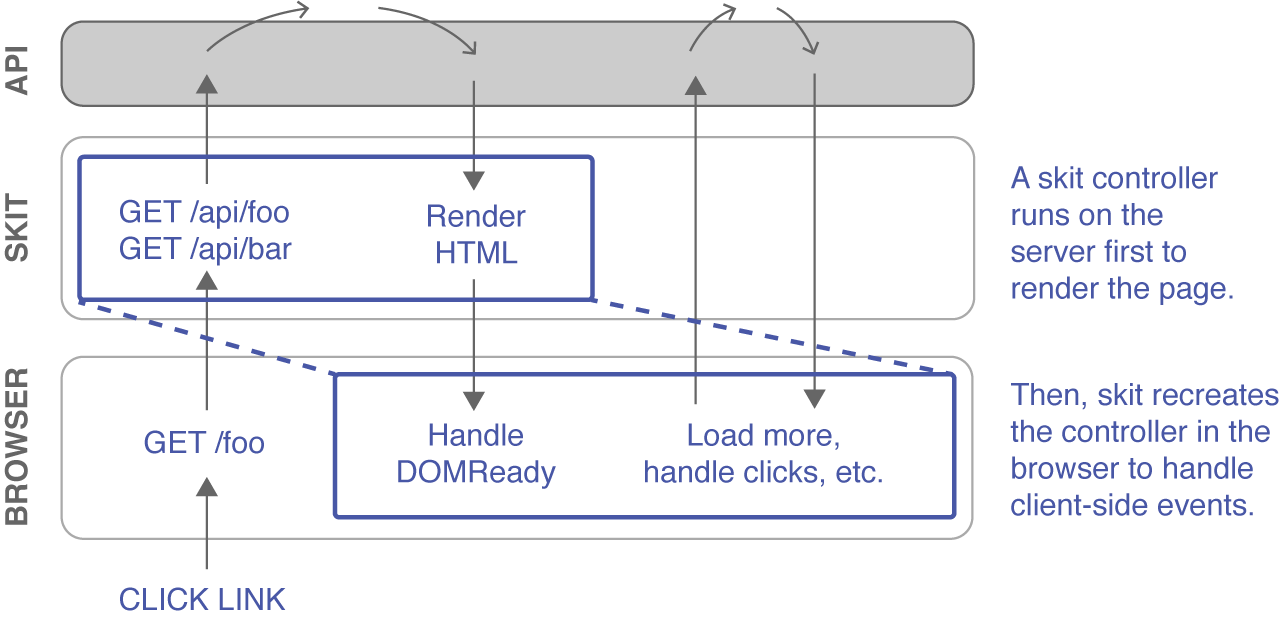
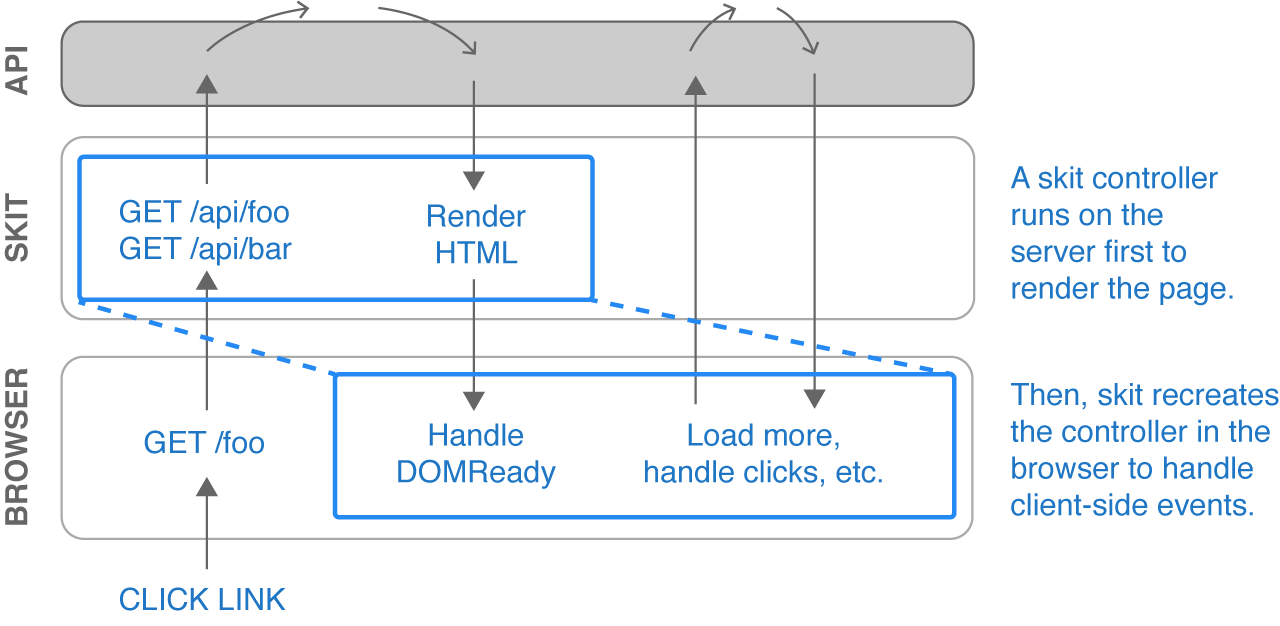
Updates from feedback from Riz, Dylan, Pat; more consistent colors.

diff --git a/example/skitjs.com/public/secret/Home.html b/example/skitjs.com/public/secret/Home.html
@@ -18,18 +18,30 @@
   <h2>What is skit?</h2>
   <ol>
     <li>
-      A JavaScript framework for building web pages with a simple lifecycle:
+      A JavaScript framework for building web pages with the following controller lifecycle:
       <span id="load-cycle">
-        <code>preload</code> &rarr; <code>render</code> &rarr; <code>client ready</code>
+        <span class="server">
+          <span class="title">Server</span>
+          <code>preload</code> &rarr; <code>render</code>
+          <span class="crossover">&rarr;</span>
+        </span><span class="client">
+          <span class="title">Browser</span>
+          <code>client ready</code>
+        </span>
       </span>
     </li>
     <li>
-      A Node.js-based webserver that renders pages on the server,
+      A webserver that runs these controllers on the server,
       then sets them up in the browser with the same state automatically.
     </li>
     <li>
       A module system for building components that consist of templates,
       stylesheets and JavaScript together.
+    </li>
+    <li>
+      A set of lightweight libraries for facilitating issuing HTTP requests,
+      managing cookies, and handling navigation on the server and client side
+      transparently.
     </li>
   </ol>
 </div>
@@ -40,18 +52,15 @@
     Skit is good for building web apps on existing HTTP-based APIs,
     like the one you probably already built for your mobile app.
   </p>
+  <div class="wide-image-container">
+    <img src="/__static__/viewlayer.png" alt="Skit lives in the view layer">
+  </div>
   <p>
     Skit is <strong>not a full-stack framework</strong>,
     or even a &ldquo;Node.js framework&rdquo; in the typical sense &mdash;
     it&rsquo;s more like a client-side framework that also runs
-    on the server side. (You can safely ignore the Node part.)
+    on the server side.
   </p>
-
-  <div class="wide-image-container">
-    <img src="/__static__/viewlayer.png" alt="Skit lives in the view layer">
-  </div>
-
-  <p>That&rsquo;s skit there, sitting right in front of your existing API. &#10548;</p>
 </div>
 
 
@@ -62,8 +71,8 @@
   <ul>
     <li>
       Write a <strong>single JavaScript codebase</strong>
-      for your web app. No more client-side app bootstrapping,
-      or multiple ways to load templates, or multiple template languages.
+      for your web app. No more client-side app bootstrapping hackery
+      or configuring static asset pipelines.
     </li>
     <li>
       Everything from URL routing to HTTP redirects to &ldquo;DOMReady&rdquo;
@@ -111,9 +120,6 @@
     <li>
       In production, resources are bundled, versioned and optimized
       automatically.
-    </li>
-    <li>
-      No more static asset pipeline configuration.
     </li>
   </ul>
 </div>

diff --git a/example/skitjs.com/public/secret/Home.css b/example/skitjs.com/public/secret/Home.css
@@ -1,3 +1,6 @@
+
+/* What is skit? Diagram */
+
 #load-cycle {
   display: block;
   padding: 5px;
@@ -8,10 +11,43 @@
 #load-cycle code {
   display: inline-block;
   padding: 5px 10px;
-  margin: -5px 0;
   font-weight: bold;
+  background: #F8F7D2;
 }
 
+#load-cycle .title {
+  font-weight: bold;
+  text-transform: uppercase;
+  font-size: 13px;
+  display: block;
+  line-height: 12px;
+  margin-bottom: 4px;
+}
+#load-cycle .server,
+#load-cycle .client {
+  display: inline-block;
+  padding: 5px;
+  border: 1px solid #ccc;
+}
+#load-cycle .server {
+  background: #D6E9FC;
+  border-right: none;
+  padding-right: 7px;
+}
+#load-cycle .client {
+  background: #B7D1EC;
+  border-left: none;
+  padding-left: 13px;
+}
+#load-cycle .crossover {
+  display: inline-block;
+  width: 0;
+  z-index: 1000;
+  position: relative;
+}
+
+
+/* Skit controller lifecycle detailed */
 
 #body .skit-lifecycle {
   padding: 5px 10px;
@@ -50,7 +86,7 @@
 
 #body .skit-lifecycle .your-code {
   padding: 5px 10px;
-  background: #E1F1F7;
+  background: #D6E9FC;
   border: 1px solid #ccc;
   border-radius: 3px;
   overflow: hidden;
